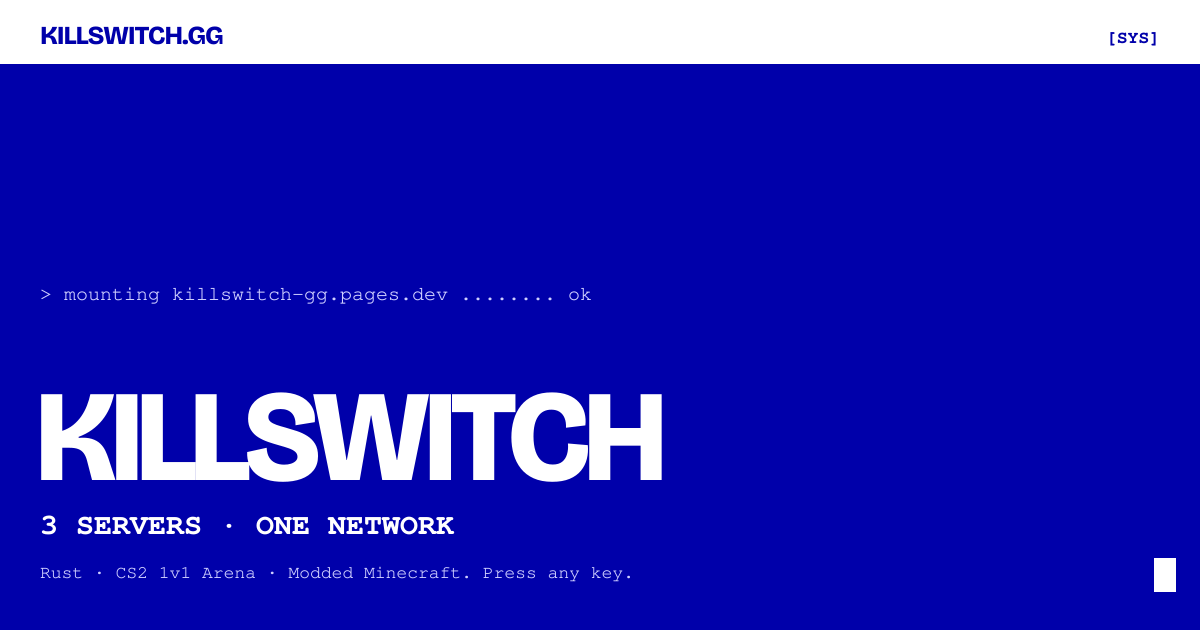
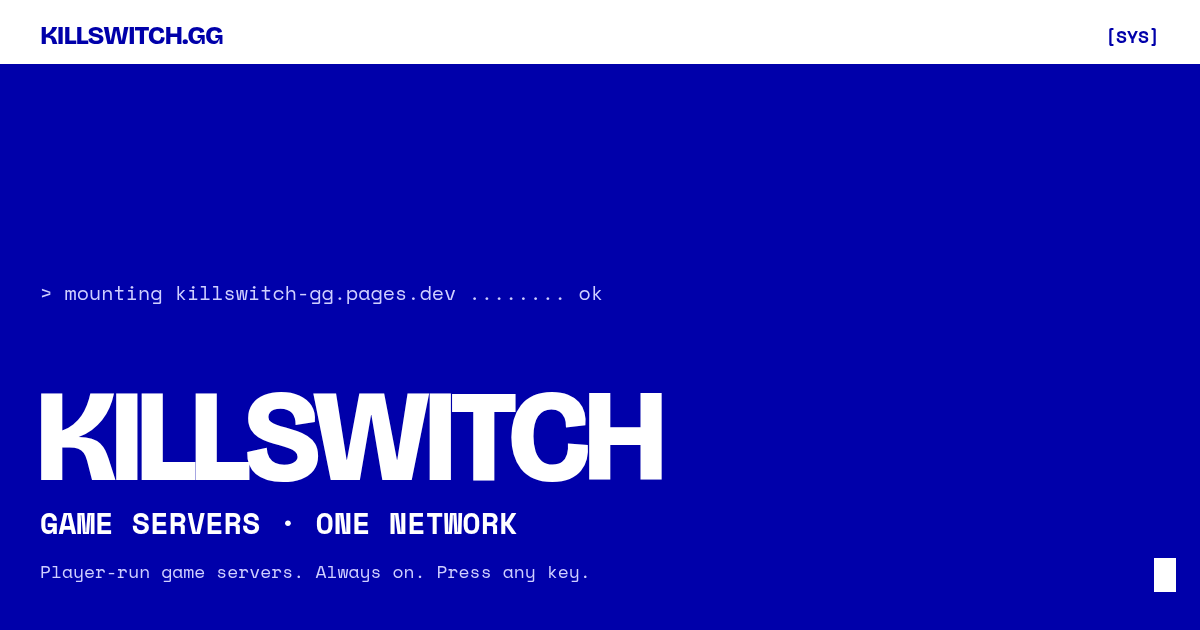
site: stop repeating the server count and game list
The social card said '3 SERVERS' and listed Rust, CS2 1v1 and Modded Minecraft.
Four servers are live and CS2 Surf was missing entirely, so the card people
actually see when the site is shared has been wrong since surf launched. The
hero sub-heading and the meta description were stale the same way, while
og:description had been corrected — four copies of the same fact, drifting
apart, which is exactly the maintenance trap worth removing rather than fixing.

- og.svg + regenerated og.png: 'GAME SERVERS · ONE NETWORK', no count, no list
- hero sub-heading and og:description: durable copy
- meta description: keeps the game names, because that is the one place they
  earn their keep for search, and is corrected to include CS2 Surf

The game list now lives in exactly one place instead of four. What is actually
running is already shown by the live status cards, which read the API.

NOT deployed — Pages is not git-connected, so the live site still serves the
old card until ./deploy.sh runs.

diff --git a/index.html b/index.html
@@ -4,9 +4,9 @@
   <meta charset="UTF-8" />
   <meta name="viewport" content="width=device-width, initial-scale=1.0" />
   <title>KILLSWITCH.GG</title>
-  <meta name="description" content="Rust weekly wipe. CS2 1v1 arena. Modded Minecraft. Player-run game servers." />
+  <meta name="description" content="Rust weekly wipe. CS2 1v1 arena. CS2 surf. Modded Minecraft. Player-run game servers." />
   <meta property="og:title" content="KILLSWITCH.GG" />
-  <meta property="og:description" content="Rust. CS2 1v1. CS2 Surf. Modded Minecraft. One network." />
+  <meta property="og:description" content="Player-run game servers. One network. Press any key." />
   <meta property="og:type" content="website" />
   <meta property="og:image" content="https://killswitch-gg.pages.dev/img/og.png" />
   <meta name="twitter:card" content="summary_large_image" />
@@ -60,7 +60,7 @@
     <div>
       <p class="hero-eyebrow">KILLSWITCH.GG · rev. 2026-09</p>
       <h1>Press<br>any key.</h1>
-      <p class="hero-sub">The Killswitch network.<br>Rust. CS2 1v1. Modded Minecraft.</p>
+      <p class="hero-sub">The Killswitch network.<br>Player-run game servers. Always on.</p>
       <div class="hero-ctas">
         <a href="#servers" class="btn-primary">[1] View servers</a>
         <a href="#events" class="btn-outline">[4] Next wipe</a>
